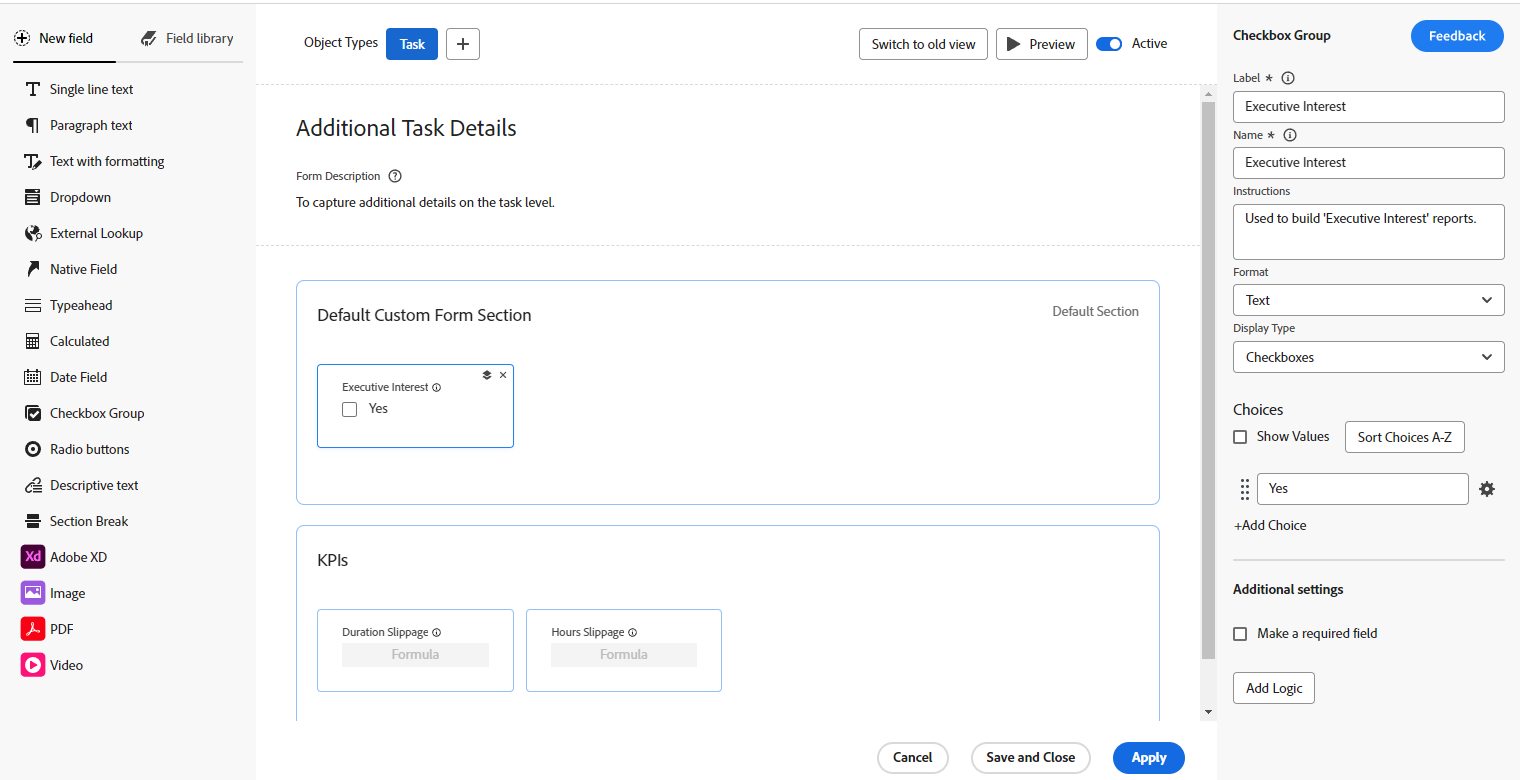
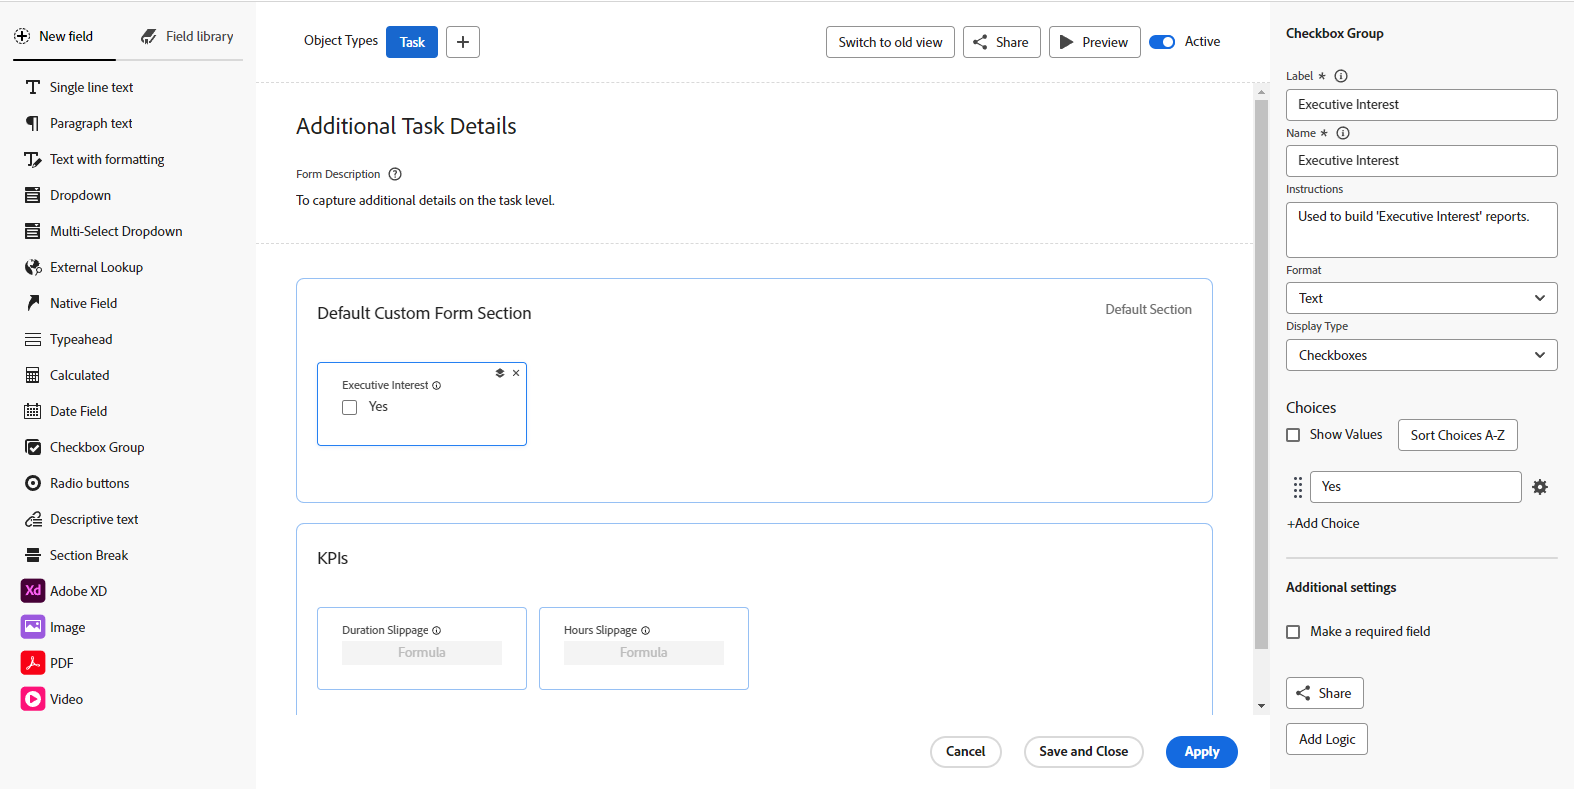
image and text

diff --git a/help/quicksilver/administration-and-setup/customize-workfront/create-manage-custom-forms/form-designer/form-designer-overview.md b/help/quicksilver/administration-and-setup/customize-workfront/create-manage-custom-forms/form-designer/form-designer-overview.md
@@ -17,9 +17,9 @@ The new form designer has a new canvas-style workspace that allows you to view t
 
 ![Sample form designer](assets/form-designer-example.png)
 
-## How to access the new form designer
+## How to access the form designer
 
-There is a new button at the top of both the new form designer and the legacy form builder. You can use this button to switch between the legacy builder and the new designer.
+A button at the top of both the new form designer and the legacy form builder allows you to switch between the versions.
 
 ![Switch to new form designer](assets/switch-views.png)
 
@@ -37,23 +37,17 @@ With the new form designer, we've added the ability to:
     >
     >The Default section is not visible within objects once the form is attached to the object.
 
+* **Use an External Lookup field**: This field type calls an external API and returns values as options in a dropdown field.
+
 ## Functionality removed from the form designer
 
 We've removed the following functionality from inside the form designer:
 
-* Form Settings, Form Sharing, Field Sharing tabs
-
-    * Form settings are now available at the top of the canvas
-
-    * Form Sharing main tab and Field Sharing subtab
-
-    >[!NOTE]
-    >
-    >You can control the form and field sharing from Setup > Custom Forms > Forms or Fields area.
+* Form settings are now available at the top of the canvas
 
 * Track field changes in update feeds
 
     >[!NOTE]
     >
-    >You can find this in Setup > Interface > Update Feeds
+    >You can find this option in Setup > Interface > Update Feeds
 
